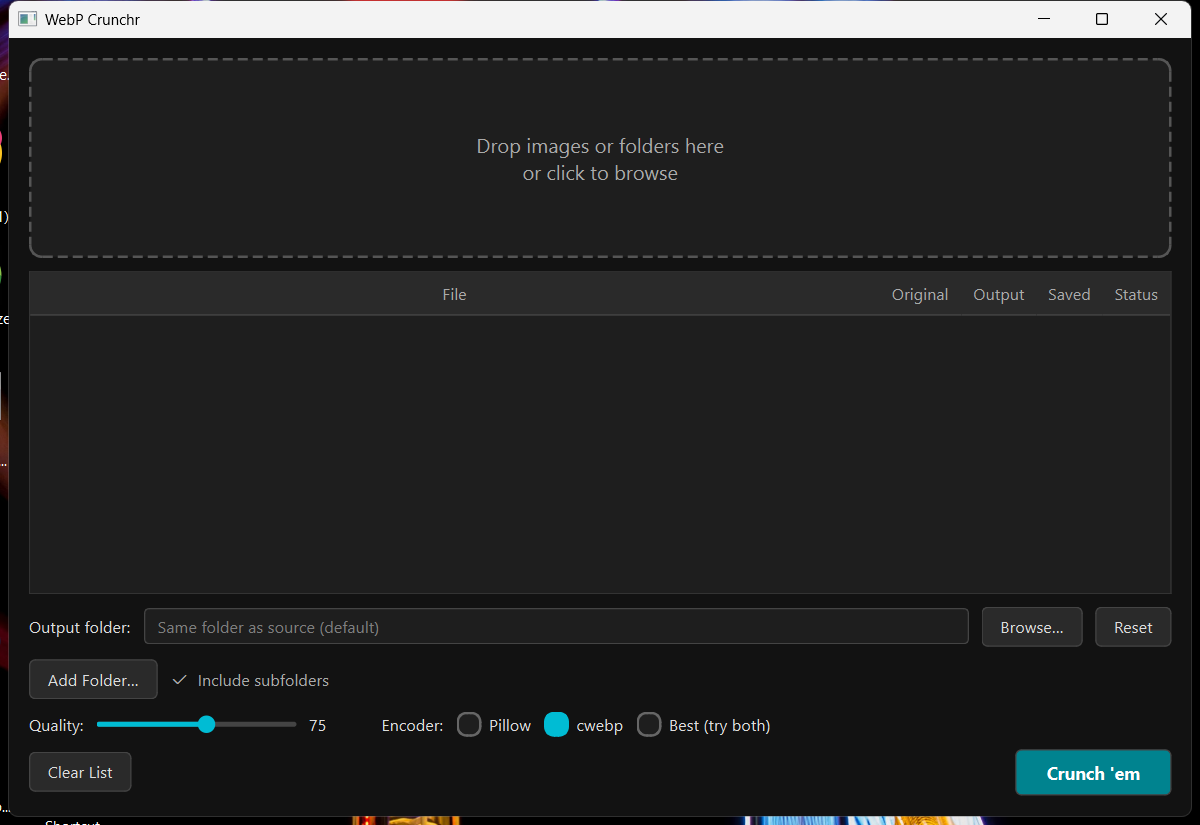
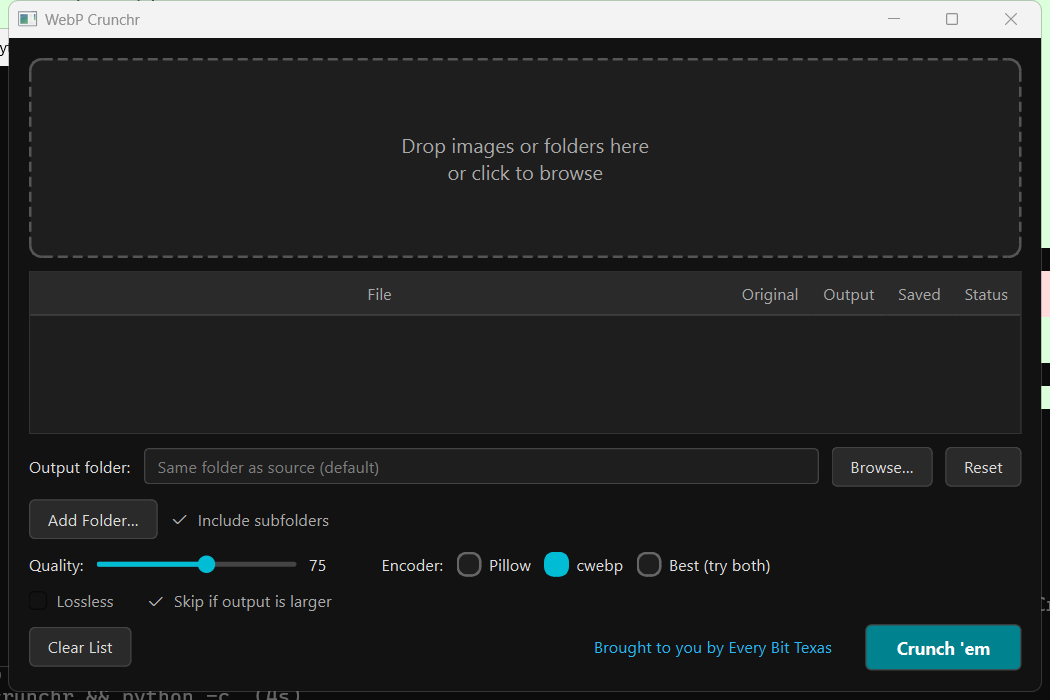
feat: lossless mode, skip-if-larger, open folder button, attribution link, updated screenshots
- converter: lossless param for both Pillow and cwebp backends
- converter: skip_if_larger option deletes output and returns 'skipped' if output >= source
- worker: passes lossless + skip_if_larger; file_done signal now includes status string
- ui: Lossless checkbox (default off)
- ui: 'Skip if output is larger' checkbox (default on)
- ui: 'Open Folder' button appears after conversion completes
- ui: 'Brought to you by Example Site' clickable attribution link
- ui: skipped status shown in amber with skip icon and counted in summary
- screenshots: refreshed both empty_state and results_state

diff --git a/ui/main_window.py b/ui/main_window.py
@@ -1,4 +1,5 @@
 import os
+import subprocess
 from pathlib import Path
 
 from PyQt6.QtWidgets import (
@@ -6,8 +7,8 @@ from PyQt6.QtWidgets import (
     QPushButton, QLabel, QSlider, QLineEdit, QFileDialog,
     QProgressBar, QCheckBox, QSizePolicy, QMessageBox, QRadioButton, QButtonGroup,
 )
-from PyQt6.QtCore import Qt, QThread, pyqtSignal, QObject
-from PyQt6.QtGui import QDragEnterEvent, QDropEvent
+from PyQt6.QtCore import Qt, QThread, pyqtSignal, QObject, QUrl
+from PyQt6.QtGui import QDragEnterEvent, QDropEvent, QDesktopServices
 
 from ui.drop_zone import DropZone
 from ui.file_list import FileListWidget, FileEntry
@@ -97,15 +98,18 @@ QRadioButton:disabled { color: #555; }
 
 
 class ConversionWorker(QObject):
-    progress = pyqtSignal(int, int)           # current, total
-    file_done = pyqtSignal(str, int, str)     # path, output_size, error
+    progress = pyqtSignal(int, int)               # current, total
+    file_done = pyqtSignal(str, int, str, str)    # path, output_size, error, status
     finished = pyqtSignal()
 
-    def __init__(self, entries: list[FileEntry], quality: int, encoder: str):
+    def __init__(self, entries: list[FileEntry], quality: int, encoder: str,
+                 lossless: bool = False, skip_if_larger: bool = False):
         super().__init__()
         self._entries = entries
         self._quality = quality
         self._encoder = encoder
+        self._lossless = lossless
+        self._skip_if_larger = skip_if_larger
         self._cancelled = False
 
     def cancel(self):
@@ -118,11 +122,19 @@ class ConversionWorker(QObject):
                 break
             dest = output_path(entry.path, entry.output_dir)
             try:
-                convert(entry.path, dest, self._quality, self._encoder)
-                size = Path(dest).stat().st_size
-                self.file_done.emit(entry.path, size, "")
+                result = convert(
+                    entry.path, dest, self._quality,
+                    encoder=self._encoder,
+                    lossless=self._lossless,
+                    skip_if_larger=self._skip_if_larger,
+                )
+                if result == "skipped":
+                    self.file_done.emit(entry.path, 0, "", "skipped")
+                else:
+                    size = Path(dest).stat().st_size
+                    self.file_done.emit(entry.path, size, "", "done")
             except Exception as exc:
-                self.file_done.emit(entry.path, -1, str(exc))
+                self.file_done.emit(entry.path, -1, str(exc), "error")
             self.progress.emit(i + 1, total)
         self.finished.emit()
 
@@ -169,7 +181,7 @@ class MainWindow(QMainWindow):
         out_row.addWidget(clear_out_btn)
         layout.addLayout(out_row)
 
-        # Add folder row
+        # Add folder + subfolder row
         folder_row = QHBoxLayout()
         add_folder_btn = QPushButton("Add Folder…")
         add_folder_btn.clicked.connect(self._pick_input_folder)
@@ -180,7 +192,7 @@ class MainWindow(QMainWindow):
         folder_row.addStretch()
         layout.addLayout(folder_row)
 
-        # Quality + cwebp row
+        # Quality + encoder row
         opts_row = QHBoxLayout()
         opts_row.addWidget(QLabel("Quality:"))
         self.quality_slider = QSlider(Qt.Orientation.Horizontal)
@@ -205,7 +217,6 @@ class MainWindow(QMainWindow):
         self._encoder_group.addButton(self._radio_pillow)
         self._encoder_group.addButton(self._radio_cwebp)
         self._encoder_group.addButton(self._radio_best)
-        # Default to cwebp — it's bundled and consistently produces smaller files
         self._radio_cwebp.setChecked(True)
         opts_row.addWidget(self._radio_pillow)
         opts_row.addWidget(self._radio_cwebp)
@@ -218,17 +229,36 @@ class MainWindow(QMainWindow):
         opts_row.addStretch()
         layout.addLayout(opts_row)
 
+        # Extra options row
+        extra_row = QHBoxLayout()
+        self.lossless_check = QCheckBox("Lossless")
+        self.lossless_check.setToolTip("Encode as lossless WebP — larger files but pixel-perfect. Best for logos and text graphics.")
+        extra_row.addWidget(self.lossless_check)
+        extra_row.addSpacing(16)
+        self.skip_larger_check = QCheckBox("Skip if output is larger")
+        self.skip_larger_check.setToolTip("Don't write the .webp file if it ends up bigger than the source.")
+        self.skip_larger_check.setChecked(True)
+        extra_row.addWidget(self.skip_larger_check)
+        extra_row.addStretch()
+        layout.addLayout(extra_row)
+
         # Progress bar
         self.progress_bar = QProgressBar()
         self.progress_bar.setVisible(False)
         layout.addWidget(self.progress_bar)
 
-        # Summary label
+        # Summary + open folder row
+        summary_row = QHBoxLayout()
         self.summary_label = QLabel("")
-        self.summary_label.setAlignment(Qt.AlignmentFlag.AlignCenter)
+        self.summary_label.setAlignment(Qt.AlignmentFlag.AlignVCenter)
         self.summary_label.setStyleSheet("color: #4caf50; font-size: 13px;")
         self.summary_label.setVisible(False)
-        layout.addWidget(self.summary_label)
+        summary_row.addWidget(self.summary_label, stretch=1)
+        self.open_folder_btn = QPushButton("Open Folder")
+        self.open_folder_btn.setVisible(False)
+        self.open_folder_btn.clicked.connect(self._open_output_folder)
+        summary_row.addWidget(self.open_folder_btn)
+        layout.addLayout(summary_row)
 
         # Action buttons row
         btn_row = QHBoxLayout()
@@ -236,6 +266,12 @@ class MainWindow(QMainWindow):
         self.clear_btn.clicked.connect(self._clear_list)
         btn_row.addWidget(self.clear_btn)
         btn_row.addStretch()
+        # Attribution link
+        attr_label = QLabel('<a href="https://example.com/" style="color:#29b6f6; text-decoration:none;">Brought to you by Example Site</a>')
+        attr_label.setOpenExternalLinks(True)
+        attr_label.setAlignment(Qt.AlignmentFlag.AlignVCenter)
+        btn_row.addWidget(attr_label)
+        btn_row.addSpacing(16)
         self.crunch_btn = QPushButton("Crunch 'em")
         self.crunch_btn.setObjectName("crunch_btn")
         self.crunch_btn.clicked.connect(self._start_conversion)
@@ -291,6 +327,7 @@ class MainWindow(QMainWindow):
         self.file_list.clear_entries()
         self.summary_label.setVisible(False)
         self.progress_bar.setVisible(False)
+        self.open_folder_btn.setVisible(False)
 
     def _start_conversion(self):
         entries = [e for e in self.file_list.entries() if e.status == "queued"]
@@ -306,7 +343,11 @@ class MainWindow(QMainWindow):
         else:
             encoder = ENCODER_PILLOW
 
+        lossless = self.lossless_check.isChecked()
+        skip_if_larger = self.skip_larger_check.isChecked()
+
         self.crunch_btn.setEnabled(False)
+        self.open_folder_btn.setVisible(False)
         self.progress_bar.setRange(0, len(entries))
         self.progress_bar.setValue(0)
         self.progress_bar.setVisible(True)
@@ -315,7 +356,7 @@ class MainWindow(QMainWindow):
         for e in entries:
             self.file_list.update_entry(e.path, status="processing")
 
-        self._worker = ConversionWorker(entries, quality, encoder)
+        self._worker = ConversionWorker(entries, quality, encoder, lossless, skip_if_larger)
         self._thread = QThread()
         self._worker.moveToThread(self._thread)
         self._thread.started.connect(self._worker.run)
@@ -330,32 +371,49 @@ class MainWindow(QMainWindow):
     def _on_progress(self, current: int, total: int):
         self.progress_bar.setValue(current)
 
-    def _on_file_done(self, path: str, output_size: int, error: str):
-        if error:
+    def _on_file_done(self, path: str, output_size: int, error: str, status: str):
+        if status == "error":
             self.file_list.update_entry(path, status="error", error_msg=error)
+        elif status == "skipped":
+            self.file_list.update_entry(path, status="skipped")
         else:
             self.file_list.update_entry(path, status="done", output_size=output_size)
 
     def _on_finished(self):
         self.crunch_btn.setEnabled(True)
+        self.progress_bar.setVisible(False)
         self._show_summary()
+
+    def _open_output_folder(self):
+        entries = self.file_list.entries()
+        done = [e for e in entries if e.status in ("done", "skipped")]
+        if not done:
+            return
+        # Use the first done entry's output dir (or source dir if default)
+        e = done[0]
+        folder = e.output_dir if e.output_dir else str(Path(e.path).parent)
+        QDesktopServices.openUrl(QUrl.fromLocalFile(folder))
 
     def _show_summary(self):
         entries = self.file_list.entries()
-        done = [e for e in entries if e.status == "done" and e.output_size is not None]
-        errors = [e for e in entries if e.status == "error"]
-        if not done:
+        done    = [e for e in entries if e.status == "done" and e.output_size is not None]
+        skipped = [e for e in entries if e.status == "skipped"]
+        errors  = [e for e in entries if e.status == "error"]
+        if not done and not skipped:
             return
-        total_in = sum(e.original_size for e in done)
-        total_out = sum(e.output_size for e in done)
-        saved = total_in - total_out
-        pct = (saved / total_in * 100) if total_in else 0
-        msg = (
-            f"✅ {len(done)} file(s) converted  —  "
-            f"{format_size(total_in)} → {format_size(total_out)}  "
-            f"({pct:.1f}% saved)"
-        )
+        parts = []
+        if done:
+            total_in  = sum(e.original_size for e in done)
+            total_out = sum(e.output_size for e in done)
+            pct = (1 - total_out / total_in) * 100 if total_in else 0
+            parts.append(
+                f"✅ {len(done)} converted  —  "
+                f"{format_size(total_in)} → {format_size(total_out)} ({pct:.1f}% saved)"
+            )
+        if skipped:
+            parts.append(f"⏭ {len(skipped)} skipped (already smallest)")
         if errors:
-            msg += f"  ⚠ {len(errors)} error(s)"
-        self.summary_label.setText(msg)
+            parts.append(f"⚠ {len(errors)} error(s)")
+        self.summary_label.setText("   ".join(parts))
         self.summary_label.setVisible(True)
+        self.open_folder_btn.setVisible(True)

diff --git a/core/converter.py b/core/converter.py
@@ -20,7 +20,6 @@ ENCODER_BEST   = "best"
 
 
 def _cwebp_path() -> str | None:
-    """Return path to cwebp: bundled copy first, then system PATH."""
     if hasattr(sys, "_MEIPASS"):
         bundled = Path(sys._MEIPASS) / "cwebp.exe"
         if bundled.exists():
@@ -35,7 +34,7 @@ def cwebp_available() -> bool:
     return _cwebp_path() is not None
 
 
-def convert_with_pillow(src: str, dest: str, quality: int) -> None:
+def convert_with_pillow(src: str, dest: str, quality: int, lossless: bool = False) -> None:
     with Image.open(src) as img:
         if getattr(img, "is_animated", False):
             img.seek(0)
@@ -45,37 +44,60 @@ def convert_with_pillow(src: str, dest: str, quality: int) -> None:
             out = img.convert("RGBA")
         else:
             out = img.convert("RGB")
-        out.save(dest, format="WEBP", quality=quality, method=6, lossless=False, exif=b"")
+        if lossless:
+            out.save(dest, format="WEBP", lossless=True, method=6, exif=b"")
+        else:
+            out.save(dest, format="WEBP", quality=quality, method=6, lossless=False, exif=b"")
 
 
-def convert_with_cwebp(src: str, dest: str, quality: int) -> None:
+def convert_with_cwebp(src: str, dest: str, quality: int, lossless: bool = False) -> None:
     exe = _cwebp_path()
-    cmd = [exe, "-q", str(quality), "-m", "6", "-metadata", "none", src, "-o", dest]
+    if lossless:
+        cmd = [exe, "-lossless", "-z", "9", "-metadata", "none", src, "-o", dest]
+    else:
+        cmd = [exe, "-q", str(quality), "-m", "6", "-metadata", "none", src, "-o", dest]
     result = subprocess.run(cmd, capture_output=True, text=True)
     if result.returncode != 0:
         raise RuntimeError(f"cwebp failed: {result.stderr.strip()}")
 
 
-def convert_best(src: str, dest: str, quality: int) -> None:
+def convert_best(src: str, dest: str, quality: int, lossless: bool = False) -> None:
     """Encode with both Pillow and cwebp, write whichever is smaller."""
     with tempfile.TemporaryDirectory() as tmp:
         p_out = str(Path(tmp) / "pillow.webp")
         c_out = str(Path(tmp) / "cwebp.webp")
-
-        convert_with_pillow(src, p_out, quality)
-        convert_with_cwebp(src, c_out, quality)
-
-        p_size = Path(p_out).stat().st_size
-        c_size = Path(c_out).stat().st_size
-        winner = c_out if c_size <= p_size else p_out
+        convert_with_pillow(src, p_out, quality, lossless)
+        convert_with_cwebp(src, c_out, quality, lossless)
+        winner = c_out if Path(c_out).stat().st_size <= Path(p_out).stat().st_size else p_out
         Path(dest).write_bytes(Path(winner).read_bytes())
 
 
-def convert(src: str, dest: str, quality: int, encoder: str = ENCODER_CWEBP) -> None:
+def convert(
+    src: str,
+    dest: str,
+    quality: int,
+    encoder: str = ENCODER_CWEBP,
+    lossless: bool = False,
+    skip_if_larger: bool = False,
+) -> str:
+    """
+    Convert src to WebP at dest. Returns 'converted', 'skipped', or raises on error.
+    'skipped' means the output would have been larger than the source.
+    """
     Path(dest).parent.mkdir(parents=True, exist_ok=True)
+
     if encoder == ENCODER_BEST and cwebp_available():
-        convert_best(src, dest, quality)
+        convert_best(src, dest, quality, lossless)
     elif encoder == ENCODER_CWEBP and cwebp_available():
-        convert_with_cwebp(src, dest, quality)
+        convert_with_cwebp(src, dest, quality, lossless)
     else:
-        convert_with_pillow(src, dest, quality)
+        convert_with_pillow(src, dest, quality, lossless)
+
+    if skip_if_larger:
+        src_size = Path(src).stat().st_size
+        out_size = Path(dest).stat().st_size
+        if out_size >= src_size:
+            Path(dest).unlink(missing_ok=True)
+            return "skipped"
+
+    return "converted"

diff --git a/ui/file_list.py b/ui/file_list.py
@@ -24,6 +24,7 @@ STATUS_ICONS = {
     "queued":     "⏳",
     "processing": "⚙",
     "done":       "✅",
+    "skipped":    "⏭",
     "error":      "❌",
 }
 
@@ -31,6 +32,7 @@ STATUS_COLORS = {
     "queued":     QColor("#888888"),
     "processing": QColor("#00bcd4"),
     "done":       QColor("#4caf50"),
+    "skipped":    QColor("#f9a825"),
     "error":      QColor("#f44336"),
 }
 
